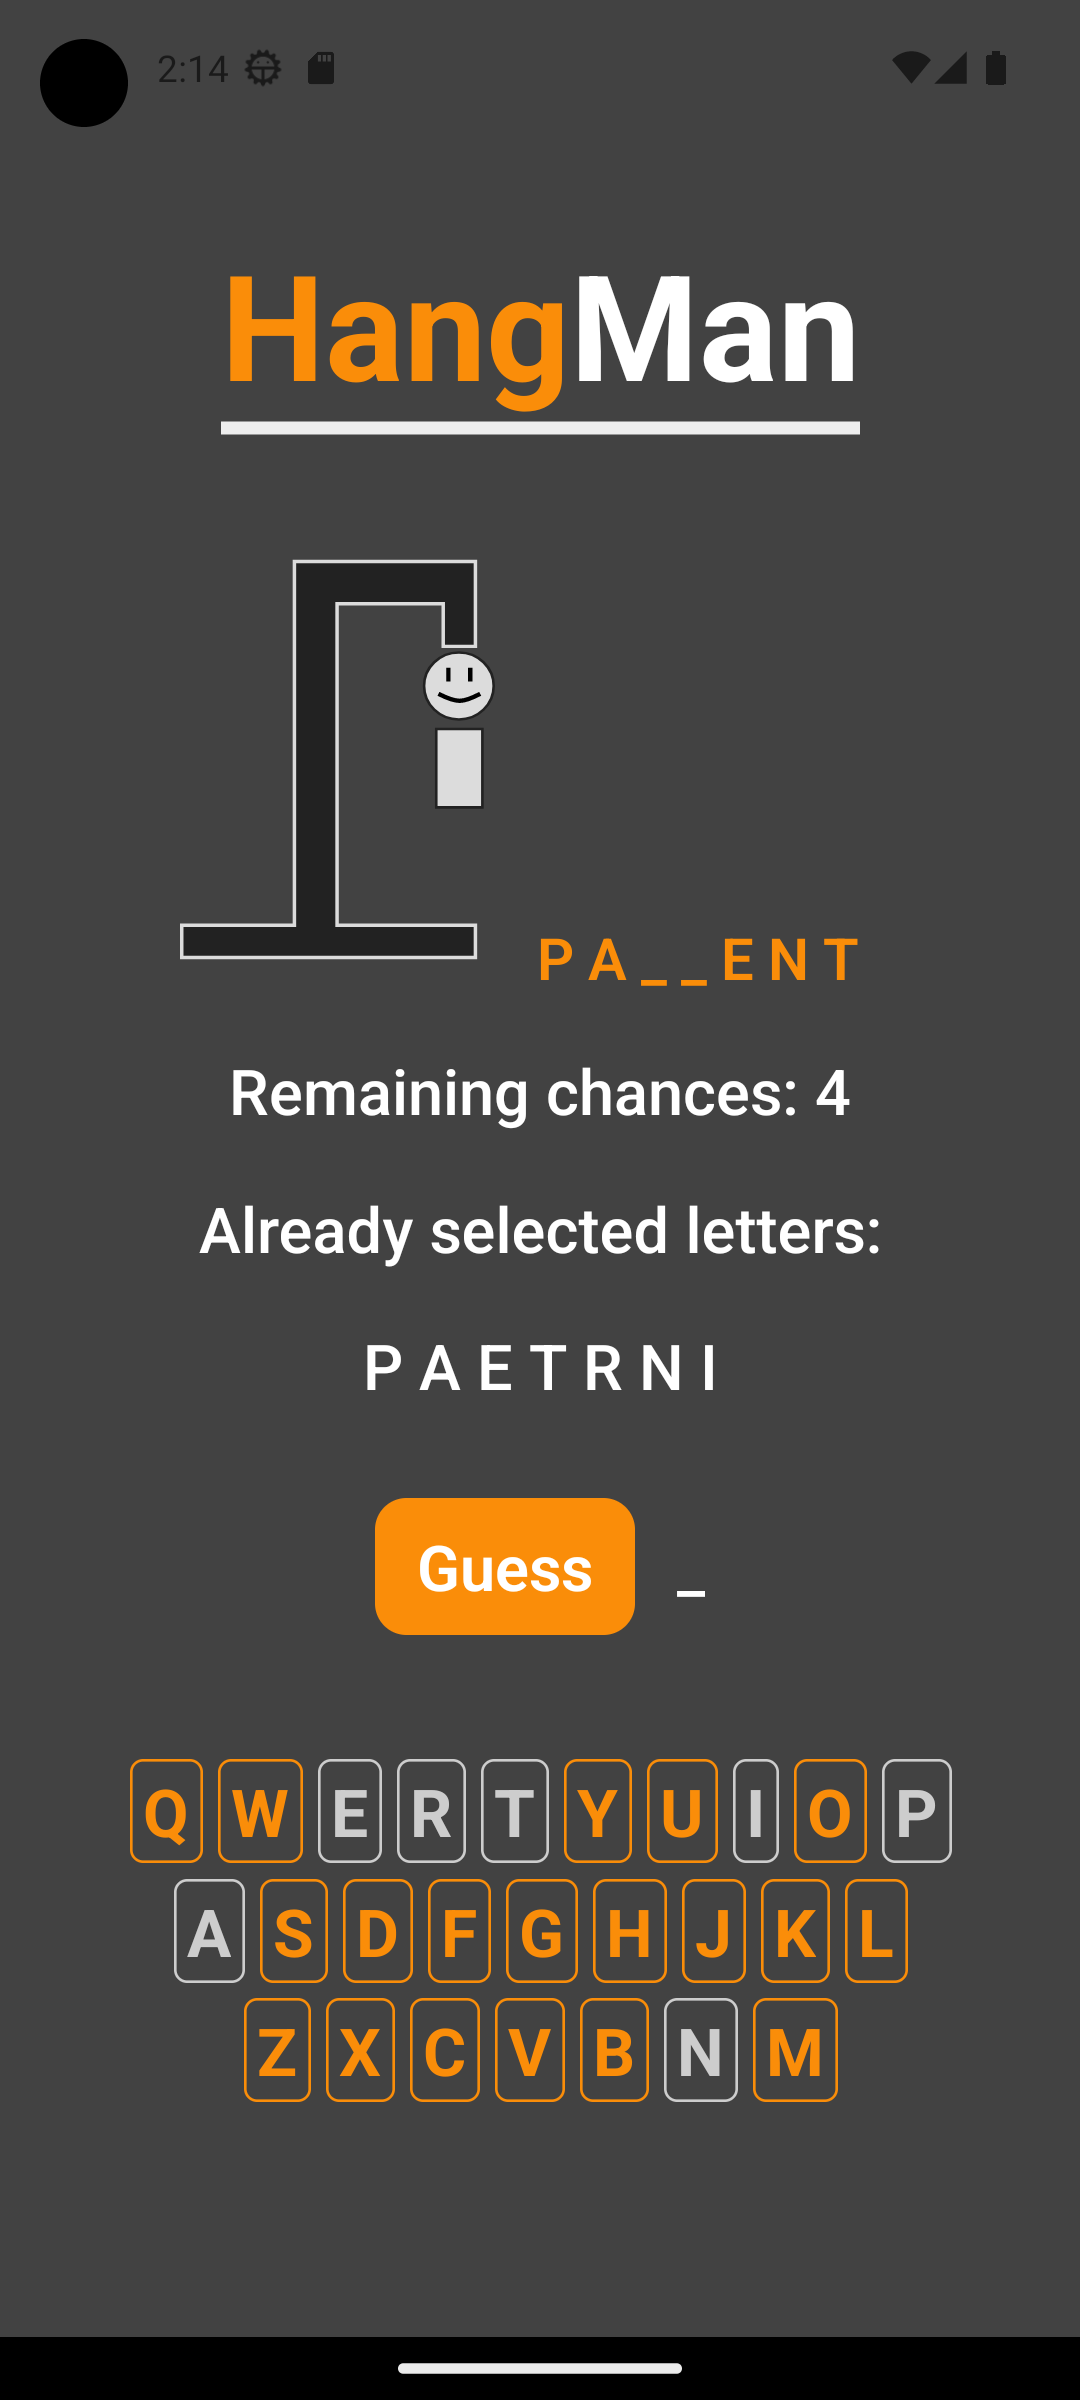
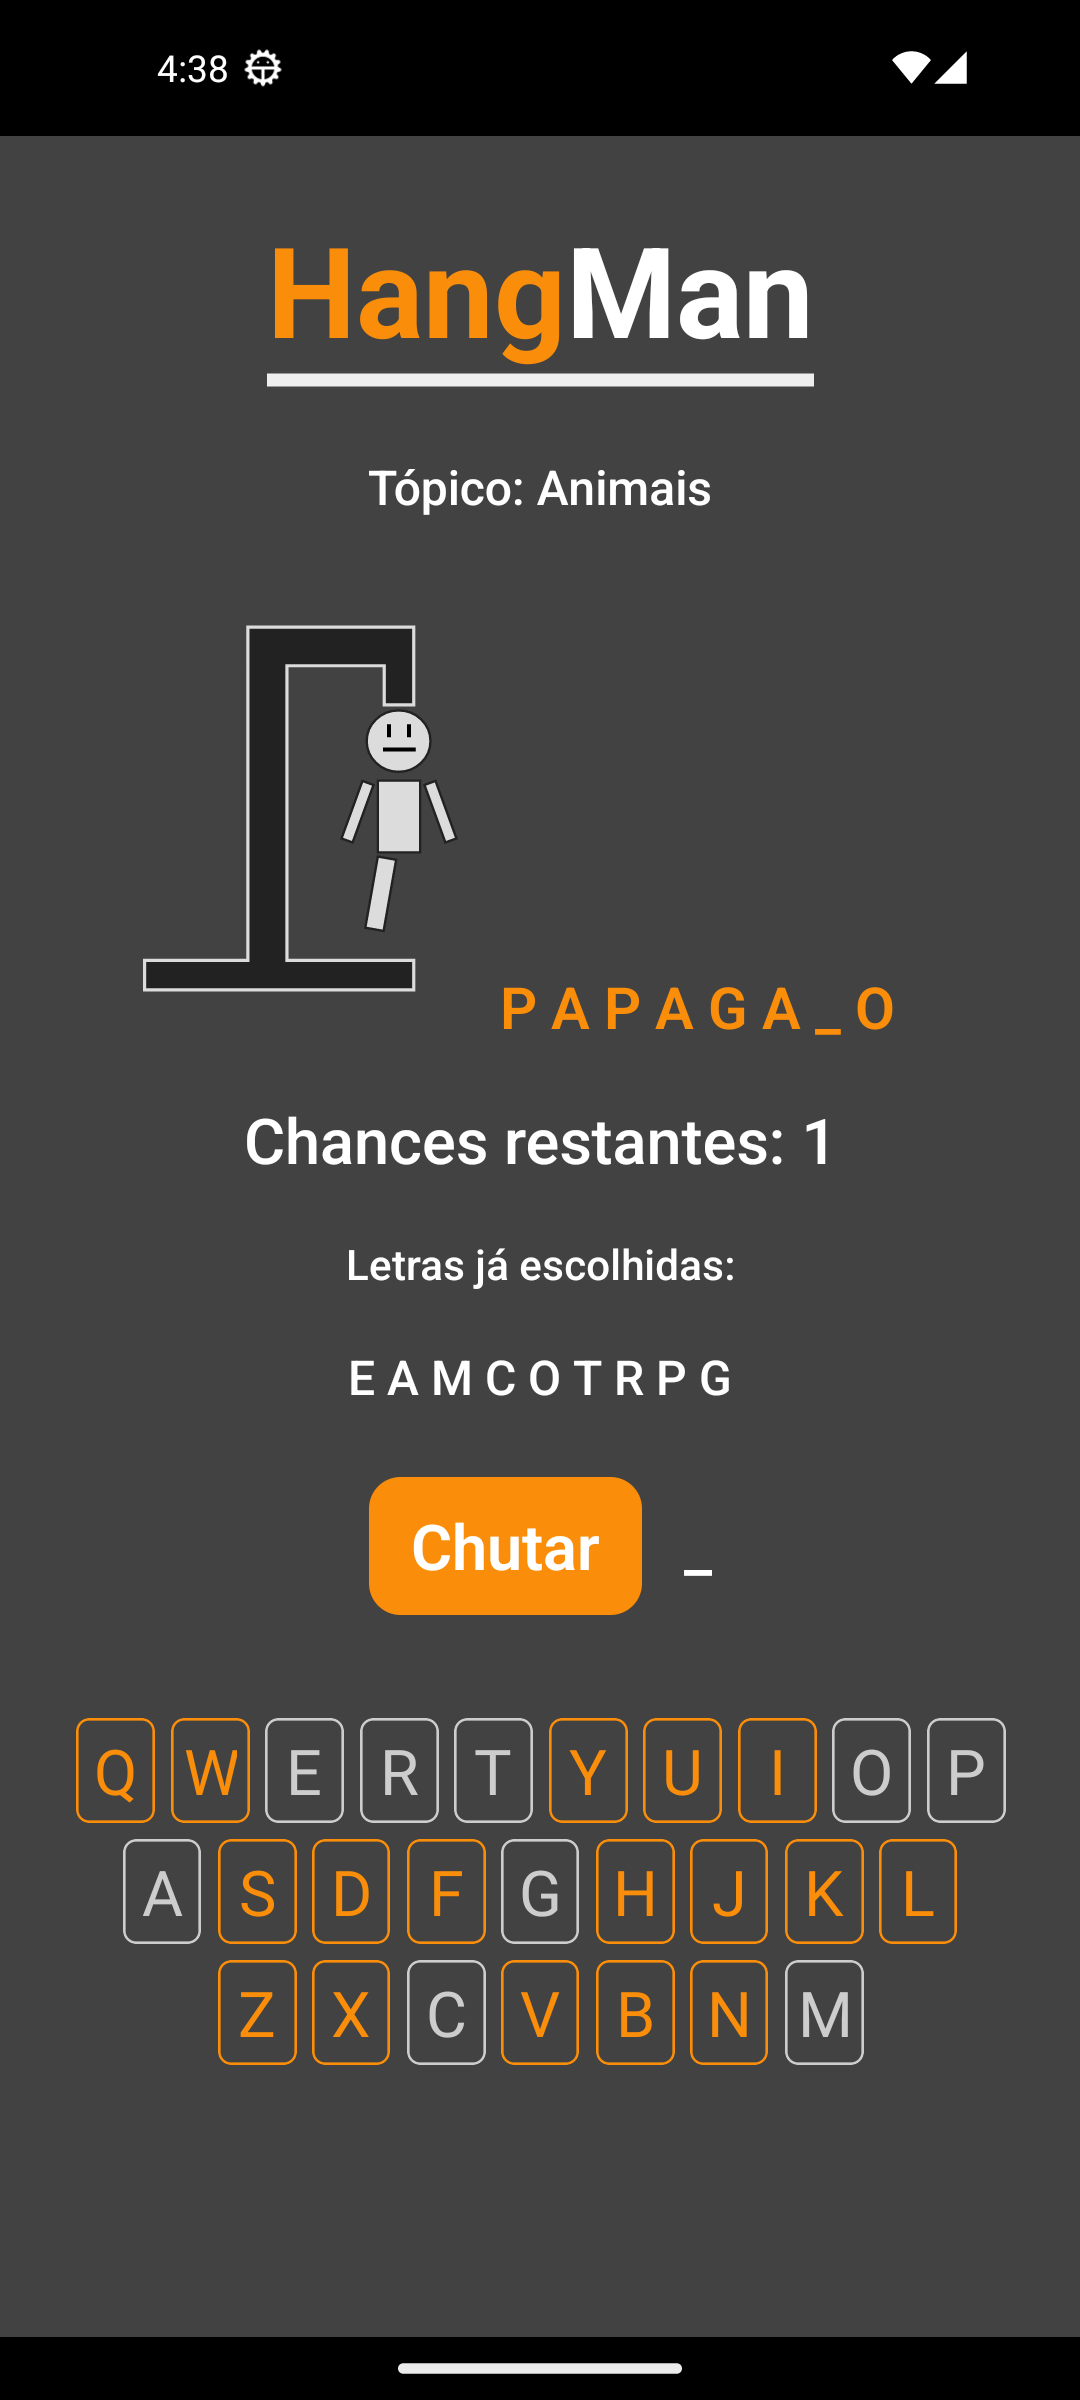
Incluindo páginas atualizadas no README.md

diff --git a/README.md b/README.md
@@ -59,7 +59,13 @@ Contém as opções que podem ser selecionadas:
 
 Contém o jogo em si, com o teclado onde se pode escolher as letras, um botão para chutar, além da imagem mostrando quantos erros já foram cometidos:
 
-<img src="./paginas/jogo.png" alt="Screenshot de uma partida do jogo em inglês" height="500"/>
+<img src="./paginas/jogo.png" alt="Screenshot de uma partida do jogo em português" height="500"/>
+
+### Tela final
+
+Contém a mensagem de vitória ou derrota, dando a opção de voltar à página inicial ou jogar novamente:
+
+<img src="./paginas/tela-final.png" alt="Screenshot da tela final em português" height="500"/>
 
 ---
 
